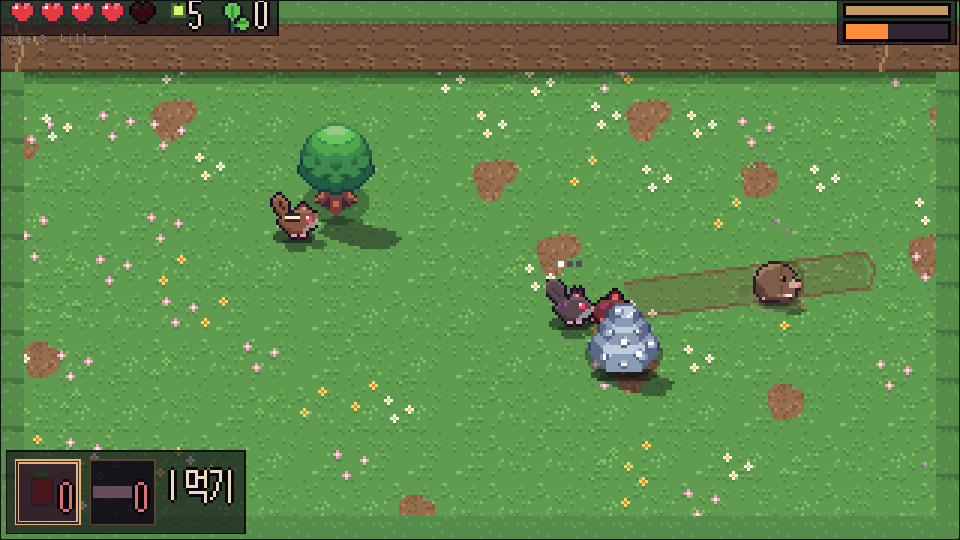
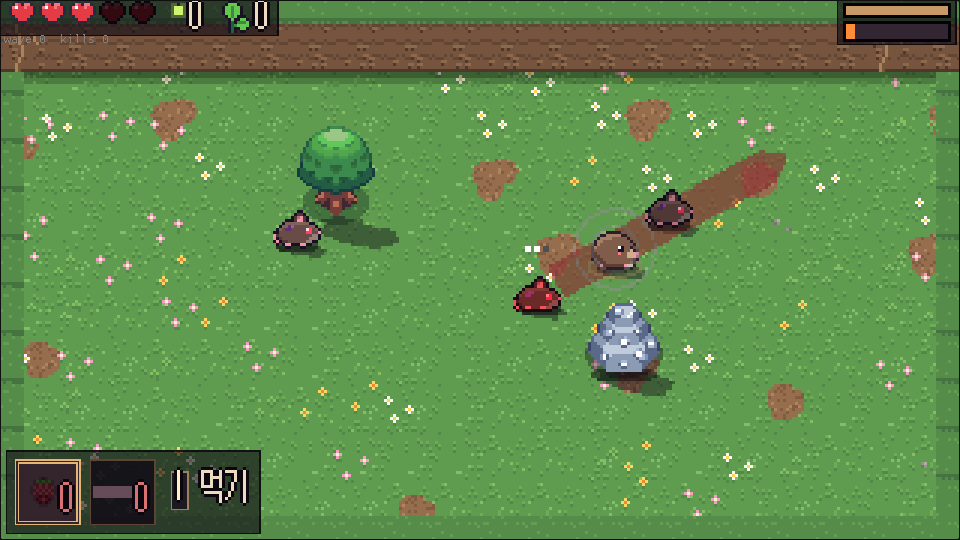
홈페이지: v0.4.0에 맞춰 싸움·지대·이웃·다음 글 고침
- 싸움: 붉은 예고 읽기(띠는 받아치기, X 원은 피하기), 박자 콤보(다 맞추면 마무리 +1), 강타, 받아치기 설명을 지금 게임대로. 싸움 스크린숏을 붉은 돌진 예고가 보이는 장면으로
- 지대: 세 지대 → 네 지대. 4 흰 실 굴(실 그물·어미 굴토끼) 스크린숏 추가
- 이웃: 토끼풀(초상화 칸 39) 추가, 할매는 가장 깊은 곳의 매듭 이야기로
- 더 있는 것: 도감 열다섯 종, 안내 탭
- 다음: v0.5 "도토와 새 옷"(0191), 그다음 공개 데모
- KO·EN 같이, make_images.py로 초상화·글꼴 다시 만듦

Claude-Session: https://claude.ai/code/session_01VNXEyeHwdhsn4oiHYXtNpM

diff --git a/site/index.html b/site/index.html
@@ -13,7 +13,7 @@
 <meta property="og:image" content="https://aimenjoe.github.io/nail-under-the-roots/img/i_title.png">
 <meta property="og:type" content="website">
 <meta name="theme-color" content="#17130f">
-<link rel="stylesheet" href="style.css?v=795fc143">
+<link rel="stylesheet" href="style.css?v=4536b663">
 </head>
 <body>
 <a class="skip" href="#story">본문으로</a>
@@ -82,14 +82,15 @@
       <header class="head">
         <p class="tag">싸움</p>
         <h2>파고들고, 솟구치고, 할퀴고</h2>
-        <p>두더지라서 할 수 있는 싸움. 손에 익을수록 빨라진다.</p>
+        <p>두더지라서 할 수 있는 싸움. 적은 칠 자리를 붉게 먼저 보여 준다. 채움이 테두리에 닿는 순간이 공격이다. 띠는 받아치고, 가운데 X가 있는 원은 피한다.</p>
       </header>
       <div class="fight">
-        <figure class="frame"><img class="px" src="img/s_fight.png" alt="풀밭에서 나일이 물든 들쥐·청설모와 싸우는 장면. 바닥에 돌진 예고선이 보인다" width="960" height="540" loading="lazy"></figure>
+        <figure class="frame"><img class="px" src="img/s_fight.png" alt="풀밭에서 나일이 물든 들쥐 떼와 싸우는 장면. 들쥐 하나가 나일 쪽으로 돌진하려 하고, 바닥에 붉은 띠 예고가 차오른다" width="960" height="540" loading="lazy"></figure>
         <ul class="moves">
-          <li><span class="keys"><kbd>J</kbd></span><b>발톱 3연타</b><span>세 번째가 가장 묵직하다. 발톱은 넷(새싹·두더지·바위·독).</span></li>
+          <li><span class="keys"><kbd>J</kbd></span><b>발톱 콤보 · 박자</b><span>누르면 바로 한 타. 고리가 닫히는 박자에 이으면 더 세고, 한 콤보를 다 맞추면 마무리 피해 +1. 발톱은 넷(새싹·두더지·바위·독).</span></li>
+          <li><span class="keys"><kbd>J</kbd></span><b>강타</b><span>한 타 뒤 계속 누르다 발톱이 빛나면 뗀다. 멀리 밀어 벽에 쿵, 등딱지와 가시도 연다.</span></li>
           <li><span class="keys"><kbd>K</kbd></span><b>굴파기 → 솟구치기</b><span>땅속으로 숨어 공격을 흘리고, 튀어나오며 들이받는다. 누르고 있으면 더 오래 숨는다.</span></li>
-          <li><span class="keys"><kbd>J</kbd></span><b>패링</b><span>적이 휘두르는 순간 맞받아치면 튕겨 낸다.</span></li>
+          <li><span class="keys"><kbd>J</kbd></span><b>받아치기</b><span>곧게 돌진하거나 날아오는 공격이 닿기 직전에 휘두르면 튕겨 내고, 적이 어질어질해진다.</span></li>
           <li><span class="keys"><kbd>L</kbd></span><b>드릴</b><span>게이지가 차면 화면 한 폭을 가로지르는 필살기.</span></li>
         </ul>
       </div>
@@ -100,7 +101,7 @@
     <div class="wrap">
       <header class="head">
         <p class="tag">지대</p>
-        <h2>내려갈수록 어두워지는 세 지대</h2>
+        <h2>내려갈수록 어두워지는 네 지대</h2>
         <p>지대마다 사는 동물이 다르고, 바닥이 위험해진다. 실제 동물의 습성에서 꺼낸 적들이다.</p>
       </header>
       <ol class="zones">
@@ -126,6 +127,13 @@
             <h3><span class="z-n">3</span>어두운 심층</h3>
             <p>빛은 나일 곁뿐. 솟구치기가 닿지 않는 <b>박쥐</b>, 포자 구름을 뿜는 <b>포자버섯</b>. 싸우는 동안 <b>천장이 무너진다</b>.</p>
             <p class="crit"><span class="sprite" style="background-image: url(img/sp_bat.png); --n: 4" title="박쥐"></span><span class="sprite" style="background-image: url(img/sp_sporecap.png); --n: 2" title="포자버섯"></span></p>
+          </div>
+        </li>
+        <li class="zone">
+          <img class="px shot" src="img/s_silk.png" alt="" width="960" height="540" loading="lazy">
+          <div>
+            <h3><span class="z-n">4</span>흰 실 굴</h3>
+            <p>모모를 집에 데려다준 뒤 셋째 길에 열리는 갈래. 바닥엔 발을 묶는 <b>흰 실 그물</b>(발톱으로 끊거나 땅속으로 지나간다), 가장 안쪽엔 아기들의 고치를 품은 <b>어미 굴토끼</b>.</p>
           </div>
         </li>
       </ol>
@@ -163,7 +171,8 @@
         <li><img class="px" src="img/p_momo.png" alt="" width="88" height="88" loading="lazy"><div><p class="who">굴토끼</p><h3>모모</h3><p>첫 길 끝에서 세 번 만난다. 나중엔 직접 데리고 내려갈 수 있다.</p></div></li>
         <li><img class="px" src="img/p_doto.png" alt="" width="88" height="88" loading="lazy"><div><p class="who">청설모</p><h3>도토</h3><p>둘째 길 끝, 뿌리 엉킨 곳. 묻어 둔 것은 아무에게도 안 준다.</p></div></li>
         <li><img class="px" src="img/p_kongi.png" alt="" width="88" height="88" loading="lazy"><div><p class="who">세띠아르마딜로</p><h3>콩이</h3><p>깊은 곳의 문지기. 아무도 못 지나가게 몸을 만다.</p></div></li>
-        <li><img class="px" src="img/p_halmae.png" alt="" width="88" height="88" loading="lazy"><div><p class="who">누룩 할매</p><h3>할매</h3><p>실을 뜨는 버섯 할매. 실뜨기로 다음 런의 어려움을 고른다.</p></div></li>
+        <li><img class="px" src="img/p_clover.png" alt="" width="88" height="88" loading="lazy"><div><p class="who">어미 굴토끼</p><h3>토끼풀</h3><p>모모의 엄마. 옛 굴 가장 안쪽에서 실에 감긴 채 아기들을 지킨다.</p></div></li>
+        <li><img class="px" src="img/p_halmae.png" alt="" width="88" height="88" loading="lazy"><div><p class="who">누룩 할매</p><h3>할매</h3><p>모든 실이 모이는 가장 깊은 곳의 버섯 할매. 할매 곁의 매듭을 다 끊으면 모두가 풀려나고, 그 뒤엔 실뜨기로 다음 런의 어려움을 골라 준다.</p></div></li>
         <li><img class="px" src="img/p_susu.png" alt="" width="88" height="88" loading="lazy"><div><p class="who">땅강아지 장인</p><h3>수수</h3><p>첫 쉼터 그루터기 곁. 새싹 발톱을 만들어 준다.</p></div></li>
       </ul>
       <div class="split">
@@ -209,7 +218,8 @@
         <li><b>실뜨기 1~10단계</b><span>깰 때마다 한 단계씩 열리는 어려움. 캐릭터마다 따로.</span></li>
         <li><b>오늘의 굴</b><span>날짜마다 같은 굴. 그날 가장 멀리 간 기록이 남는다.</span></li>
         <li><b>실의 꿈</b><span>이긴 길의 주인과 꿈속에서 다시 싸우기.</span></li>
-        <li><b>저널 · 도감 · 앨범</b><span>런을 넘는 목표와 보상, 만난 적 열네 종, 본 그림.</span></li>
+        <li><b>저널 · 도감 · 앨범</b><span>런을 넘는 목표와 보상, 만난 적 열다섯 종, 본 그림.</span></li>
+        <li><b>안내</b><span>메뉴의 안내 탭에서 콤보·강타·받아치기·예고 읽기를 움직이는 그림으로 다시 본다.</span></li>
         <li><b>저장 슬롯 셋 · 쉼터에서 이어하기</b><span>쉼터까지 온 런은 껐다 켜도 이어진다.</span></li>
       </ul>
     </div>
@@ -296,8 +306,8 @@
     <div class="wrap split">
       <div class="copy">
         <p class="tag">다음</p>
-        <h2>v0.4 "깊은 곳"을 만드는 중</h2>
-        <p>더 깊은 새 길과 그 끝의 이웃, 그리고 가장 깊은 곳의 마지막 싸움. 해 보고 느낀 점은 언제든 <a href="https://github.com/AimenJoe/nail-under-the-roots/issues">의견·버그 알리기</a>로.</p>
+        <h2>v0.5 "도토와 새 옷"을 만드는 중</h2>
+        <p>v0.4 "깊은 곳"으로 가장 깊은 곳까지 길이 이어졌다. 다음은 도토리를 던지는 청설모 <b>도토</b>를 셋째 캐릭터로, 그리고 모두의 그림을 새로 그린다. 그다음은 공개 데모. 해 보고 느낀 점은 언제든 <a href="https://github.com/AimenJoe/nail-under-the-roots/issues">의견·버그 알리기</a>로.</p>
       </div>
       <dl class="facts">
         <div><dt>장르</dt><dd>탑다운 액션 로그라이트</dd></div>

diff --git a/site/en/index.html b/site/en/index.html
@@ -13,7 +13,7 @@
 <meta property="og:image" content="https://aimenjoe.github.io/nail-under-the-roots/img/i_title.png">
 <meta property="og:type" content="website">
 <meta name="theme-color" content="#17130f">
-<link rel="stylesheet" href="../style.css?v=795fc143">
+<link rel="stylesheet" href="../style.css?v=4536b663">
 </head>
 <body>
 <a class="skip" href="#story">Skip to content</a>
@@ -81,14 +81,15 @@
       <header class="head">
         <p class="tag">Fight</p>
         <h2>Dig in, burst out, claw</h2>
-        <p>A fighting style only a mole could have. It gets faster as it gets familiar.</p>
+        <p>A fighting style only a mole could have. Enemies show where they will strike in red first: the attack lands the moment the fill reaches the border. Parry the lanes, dodge the circles with an X.</p>
       </header>
       <div class="fight">
-        <figure class="frame"><img class="px" src="../img/s_fight.png" alt="Naïl fighting tainted field mice and squirrels on a meadow, a charge warning line on the ground" width="960" height="540" loading="lazy"></figure>
+        <figure class="frame"><img class="px" src="../img/s_fight.png" alt="Naïl fighting a pack of tainted field mice on a meadow. One mouse is about to charge, and a red lane warning fills on the ground" width="960" height="540" loading="lazy"></figure>
         <ul class="moves">
-          <li><span class="keys"><kbd>J</kbd></span><b>Three-hit claws</b><span>The third hit lands hardest. Four claws to find: Sprout, Mole, Stone and Venom.</span></li>
+          <li><span class="keys"><kbd>J</kbd></span><b>Claw combo · beat</b><span>A swing comes out at once. Chain on the beat as the ring closes to hit harder; land every beat for +1 damage on the finisher. Four claws to find: Sprout, Mole, Stone and Venom.</span></li>
+          <li><span class="keys"><kbd>J</kbd></span><b>Heavy strike</b><span>After a swing, keep holding until your claws glow, then release. It shoves foes into walls and cracks shells and spines.</span></li>
           <li><span class="keys"><kbd>K</kbd></span><b>Burrow → burst up</b><span>Duck underground to let attacks pass, then burst out into a ram. Hold to stay under longer.</span></li>
-          <li><span class="keys"><kbd>J</kbd></span><b>Parry</b><span>Swing right as an enemy strikes to knock it back.</span></li>
+          <li><span class="keys"><kbd>J</kbd></span><b>Parry</b><span>Swing just before a straight charge or a thrown attack lands to knock it back and leave the enemy dizzy.</span></li>
           <li><span class="keys"><kbd>L</kbd></span><b>Drill</b><span>When the gauge is full, dash a whole screen across.</span></li>
         </ul>
       </div>
@@ -99,7 +100,7 @@
     <div class="wrap">
       <header class="head">
         <p class="tag">Zones</p>
-        <h2>Three zones, darker the deeper you go</h2>
+        <h2>Four zones, darker the deeper you go</h2>
         <p>Each zone has its own creatures and its own dangerous ground. Their tricks come from how the real animals live.</p>
       </header>
       <ol class="zones">
@@ -125,6 +126,13 @@
             <h3><span class="z-n">3</span>Dark Depths</h3>
             <p>The only light is around Naïl. <b>Bats</b> your burst can't reach, <b>spore caps</b> that puff out clouds, and a <b>ceiling that falls</b> while you fight.</p>
             <p class="crit"><span class="sprite" style="background-image: url(../img/sp_bat.png); --n: 4" title="Bat"></span><span class="sprite" style="background-image: url(../img/sp_sporecap.png); --n: 2" title="Spore Cap"></span></p>
+          </div>
+        </li>
+        <li class="zone">
+          <img class="px shot" src="../img/s_silk.png" alt="" width="960" height="540" loading="lazy">
+          <div>
+            <h3><span class="z-n">4</span>White Silk Warren</h3>
+            <p>A branch on the third path that opens once Momo is home. <b>Silk webs</b> on the floor hold you in place (cut them with your claws or dig under), and deep inside waits a <b>mother rabbit</b> guarding her babies' cocoons.</p>
           </div>
         </li>
       </ol>
@@ -162,7 +170,8 @@
         <li><img class="px" src="../img/p_momo.png" alt="" width="88" height="88" loading="lazy"><div><p class="who">Rabbit</p><h3>Momo</h3><p>Met three times at the end of the first path. Later, you can take her down yourself.</p></div></li>
         <li><img class="px" src="../img/p_doto.png" alt="" width="88" height="88" loading="lazy"><div><p class="who">Squirrel</p><h3>Doto</h3><p>At the tangled roots where the second path ends. Gives up nothing it buried.</p></div></li>
         <li><img class="px" src="../img/p_kongi.png" alt="" width="88" height="88" loading="lazy"><div><p class="who">Armadillo</p><h3>Kongi</h3><p>Keeper of the deep door. Curls up so no one can go further down.</p></div></li>
-        <li><img class="px" src="../img/p_halmae.png" alt="" width="88" height="88" loading="lazy"><div><p class="who">Mushroom elder</p><h3>Granny Nuruk</h3><p>Spins threads. Her cat's cradle sets how hard your next run is.</p></div></li>
+        <li><img class="px" src="../img/p_clover.png" alt="" width="88" height="88" loading="lazy"><div><p class="who">Mother rabbit</p><h3>Clover</h3><p>Momo's mother. Bound in thread at the back of the old warren, still guarding her babies.</p></div></li>
+        <li><img class="px" src="../img/p_halmae.png" alt="" width="88" height="88" loading="lazy"><div><p class="who">Mushroom elder</p><h3>Granny Nuruk</h3><p>Waits at the very bottom, where the threads meet. Cut her knots to free everyone. Later, her cat's cradle sets the difficulty.</p></div></li>
         <li><img class="px" src="../img/p_susu.png" alt="" width="88" height="88" loading="lazy"><div><p class="who">Mole cricket smith</p><h3>Susu</h3><p>By the stump at the first camp. Makes you Sprout Claws.</p></div></li>
       </ul>
       <div class="split">
@@ -208,7 +217,8 @@
         <li><b>Cat's Cradle 1–10</b><span>Difficulty steps that open one by one as you clear. Tracked per hero.</span></li>
         <li><b>Today's Burrow</b><span>The same burrow for everyone on a given date, with your best distance kept.</span></li>
         <li><b>Thread Dream</b><span>Fight the bosses you beat again, inside a dream.</span></li>
-        <li><b>Journal · Bestiary · Album</b><span>Goals across runs, fourteen creatures to meet, the pictures you saw.</span></li>
+        <li><b>Journal · Bestiary · Album</b><span>Goals across runs, fifteen creatures to meet, the pictures you saw.</span></li>
+        <li><b>Help</b><span>The Help tab in the menu shows combos, heavy strikes, parries and how to read warnings as moving pictures.</span></li>
         <li><b>Three save slots · resume at camp</b><span>A run that reached camp carries on after you quit.</span></li>
       </ul>
     </div>
@@ -295,8 +305,8 @@
     <div class="wrap split">
       <div class="copy">
         <p class="tag">Next</p>
-        <h2>Working on v0.4, "The Deep"</h2>
-        <p>A new, deeper path with a neighbor at its end, and a last fight at the very bottom. Tell us what you think any time via <a href="https://github.com/AimenJoe/nail-under-the-roots/issues">feedback &amp; bug reports</a>.</p>
+        <h2>Working on v0.5, "Doto and New Clothes"</h2>
+        <p>With v0.4, "The Deep", the path now runs all the way to the bottom. Next: <b>Doto</b>, the acorn-throwing squirrel, as a third playable hero, and new art for everyone. After that, a public demo. Tell us what you think any time via <a href="https://github.com/AimenJoe/nail-under-the-roots/issues">feedback &amp; bug reports</a>.</p>
       </div>
       <dl class="facts">
         <div><dt>Genre</dt><dd>Top-down action roguelite</dd></div>

diff --git a/site/style.css b/site/style.css
@@ -4,7 +4,7 @@
    움직임(반딧불·걷는 스프라이트)은 prefers-reduced-motion이면 멈춘다. */
 @font-face {
   font-family: "Galmuri11";
-  src: url("fonts/galmuri11-sub.woff2?v=f21a9087") format("woff2");
+  src: url("fonts/galmuri11-sub.woff2?v=c08bb8fd") format("woff2");
   font-display: swap;
 }
 :root {

diff --git a/tools/site/make_images.py b/tools/site/make_images.py
@@ -30,6 +30,7 @@ PORTRAITS = {
     "doto": 31,
     "susu": 33,
     "kongi": 36,
+    "clover": 39,
 }
 # 스포일러가 없는 일러스트만(타이틀 바탕·오프닝의 엄마 굴).
 ILLUSTS = ["title", "mother_burrow"]
